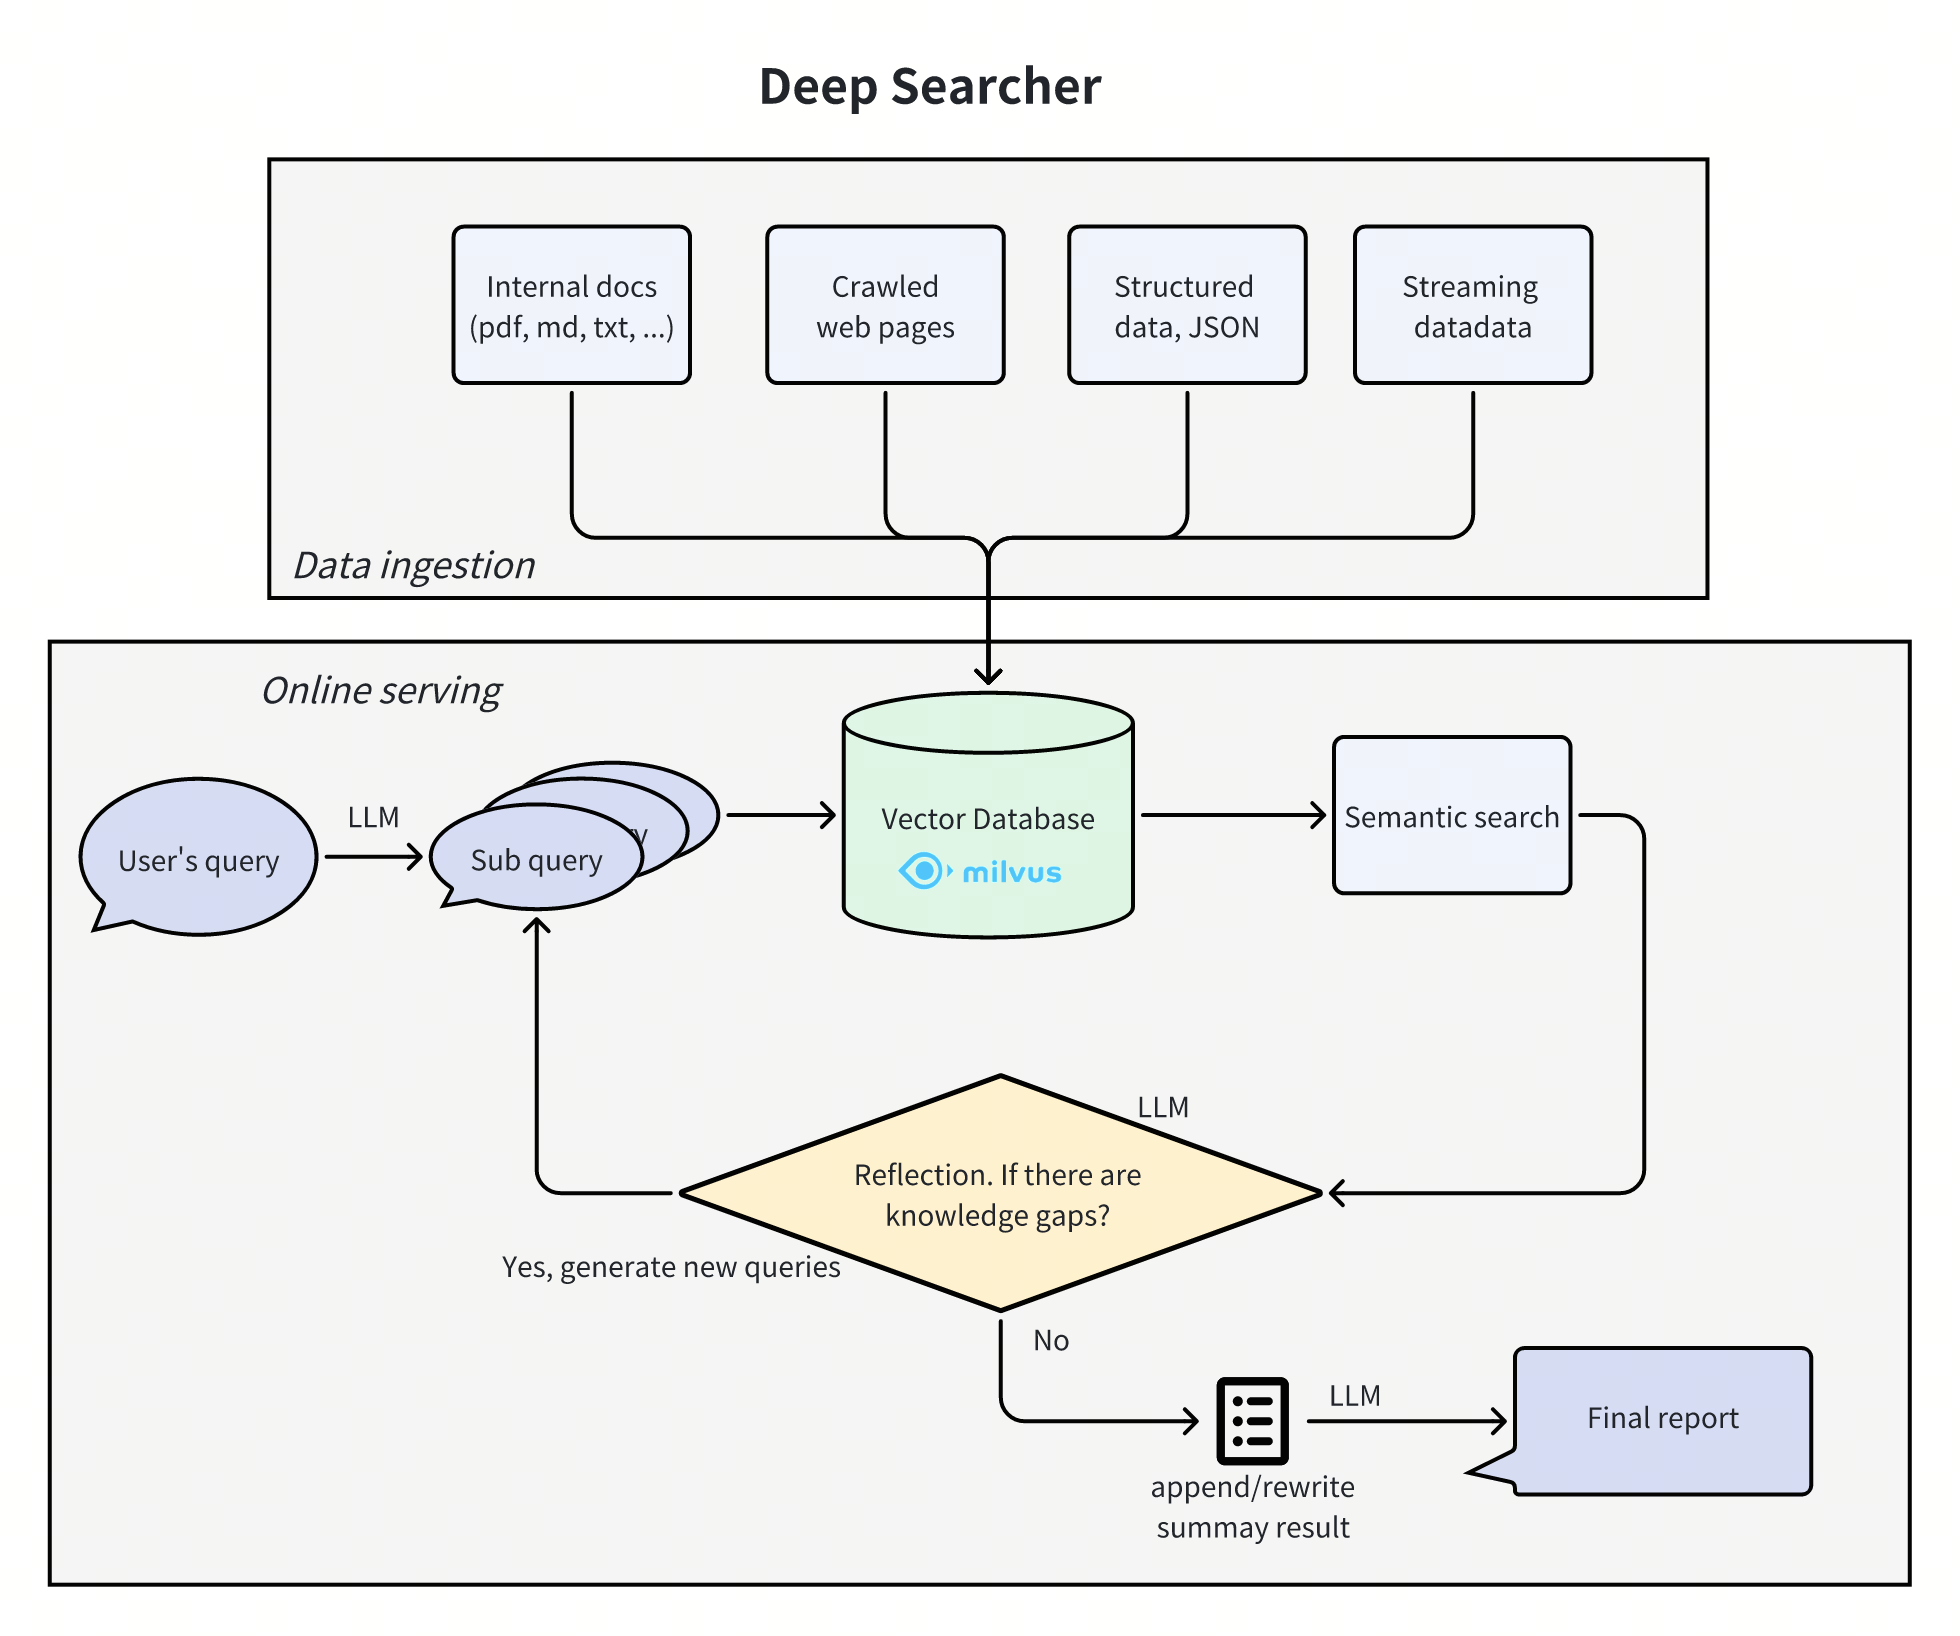
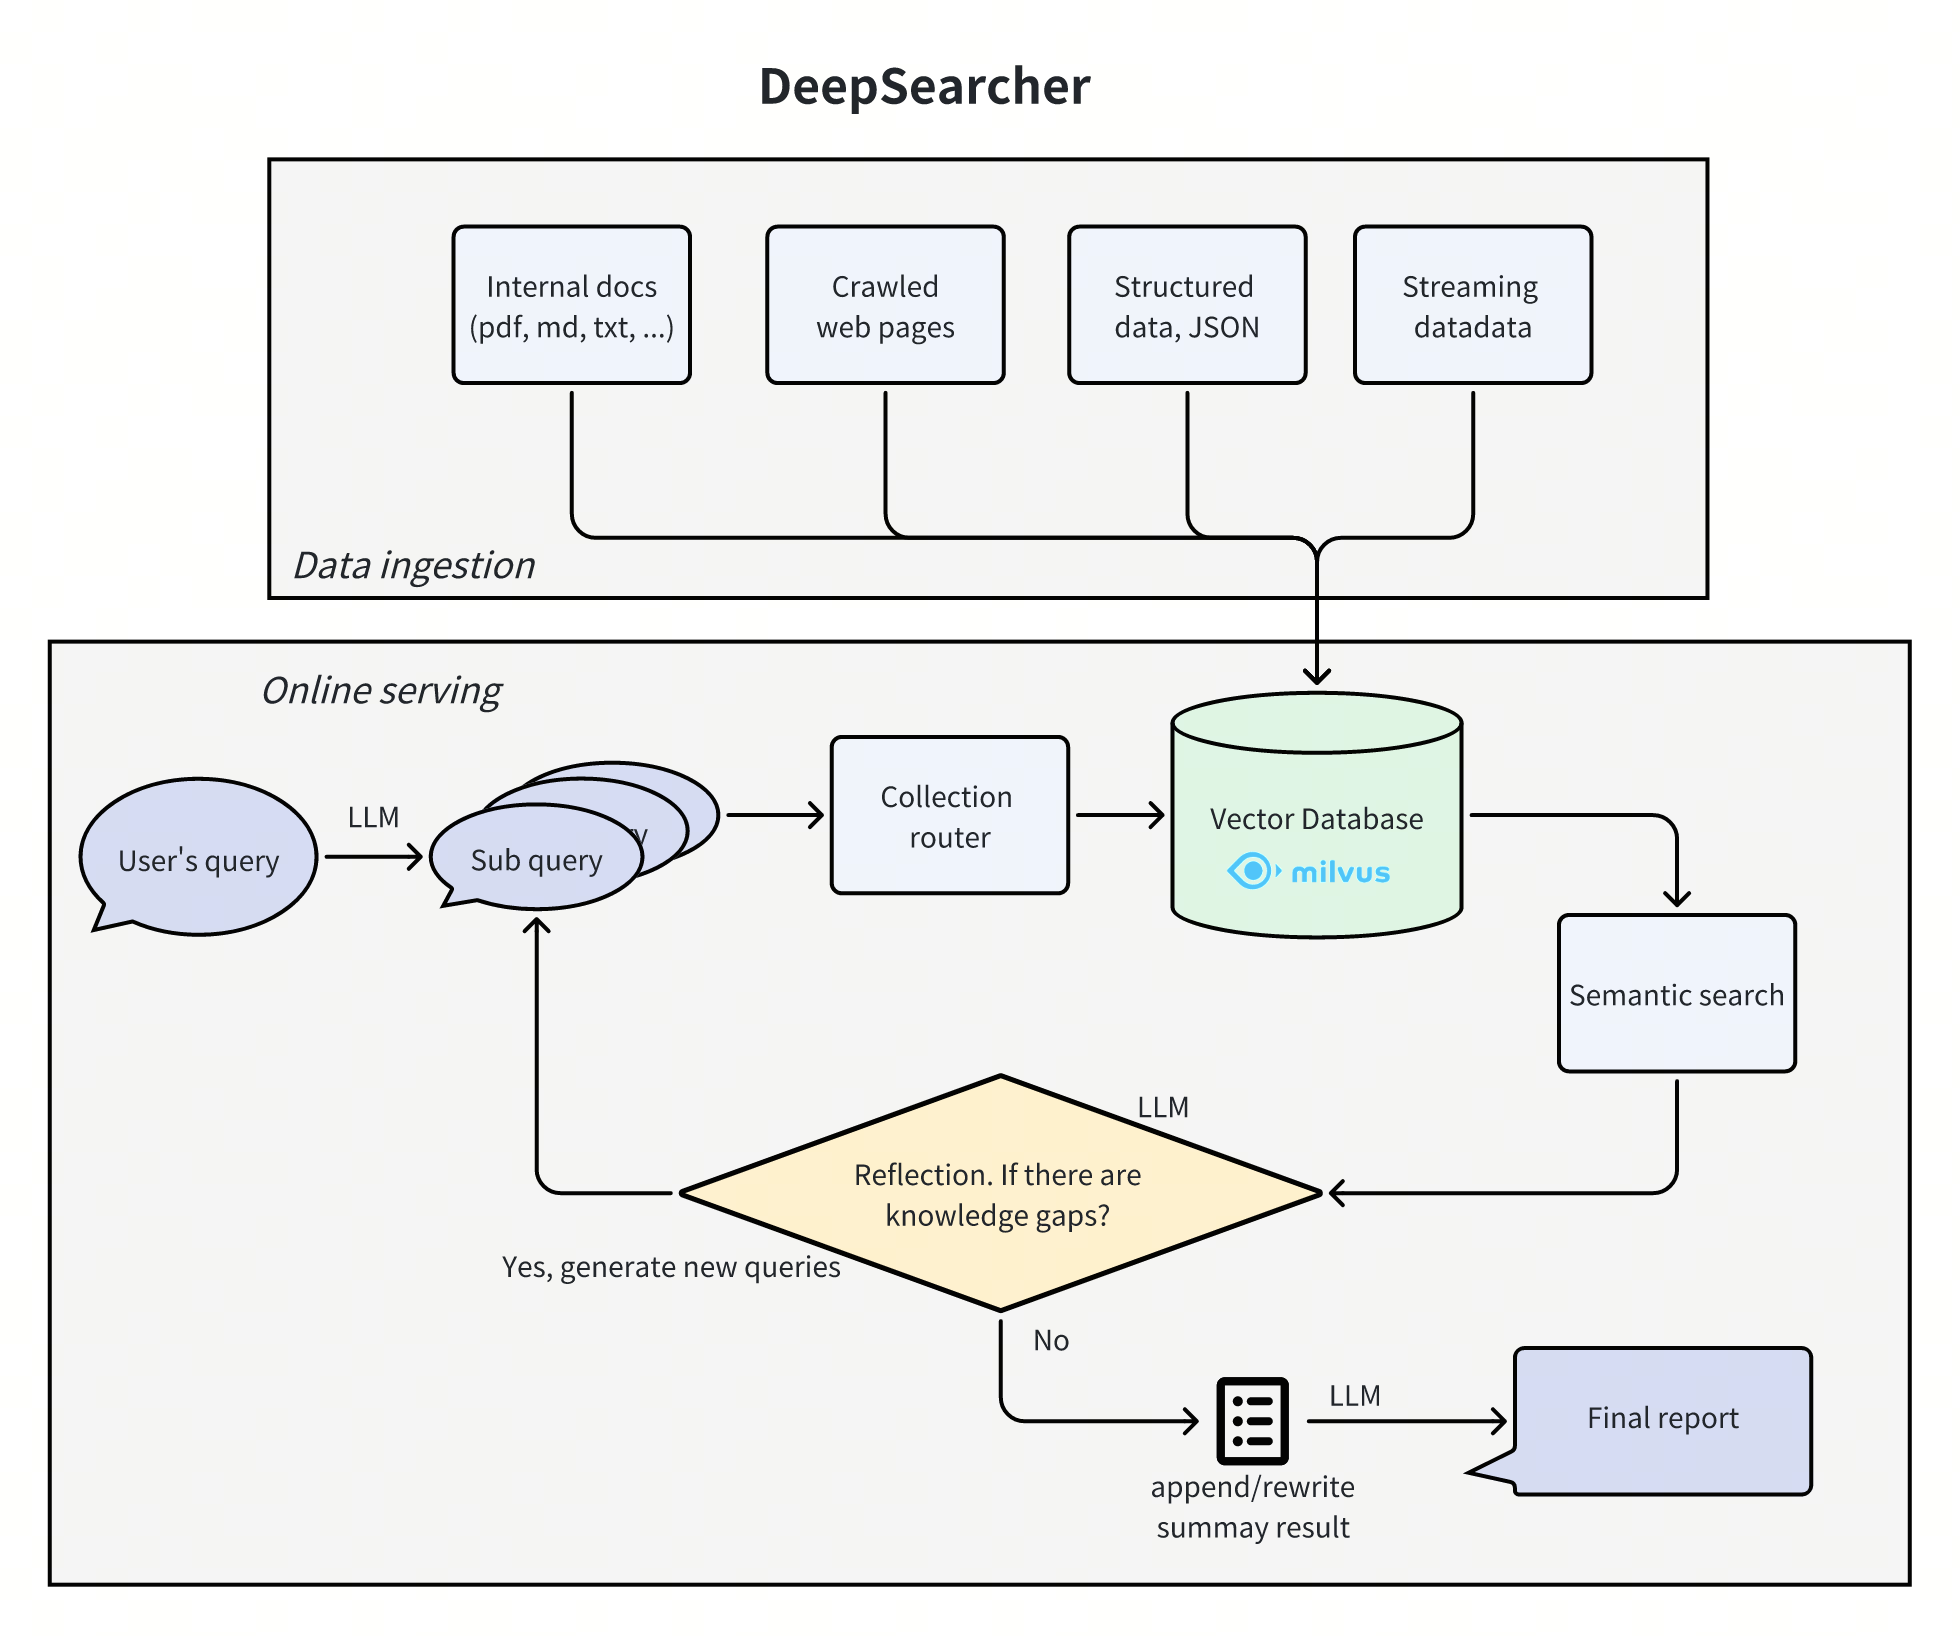
name refinement

diff --git a/deepsearcher/configuration.py b/deepsearcher/configuration.py
@@ -6,7 +6,7 @@ from deepsearcher.loader.file_loader.base import BaseLoader
 from deepsearcher.loader.web_crawler.base import BaseCrawler
 from deepsearcher.vector_db.base import BaseVectorDB
 
-FeatureType = Literal["llm", "file_loader", "web_crawler", "vector_db"]
+FeatureType = Literal["llm", "embedding", "file_loader", "web_crawler", "vector_db"]
 
 class Configuration:
     def __init__(self):

diff --git a/README.md b/README.md
@@ -1,6 +1,6 @@
-# Deep Searcher
+# DeepSearcher
 
-Deep Searcher combines Large Language Models (LLMs) and Vector Databases to perform search, evaluation, and reasoning based on private data, providing highly accurate answers. This project is suitable for enterprise knowledge management, intelligent Q&A systems, and information retrieval scenarios.
+DeepSearcher combines powerful LLMs (DeepSeek, OpenAI, etc.) and Vector Databases (Milvus, etc.) to perform search, evaluation, and reasoning based on private data, providing highly accurate answer and comprehensive report. This project is suitable for enterprise knowledge management, intelligent Q&A systems, and information retrieval scenarios.
 
 ![Architecture](./assets/pic/deep-searcher-arch.png)
 
@@ -39,7 +39,7 @@ code examples/example1.py
 python examples/example1.py
 ```
 
-💡 **Hint**: Refer to the `examples` directory to import your private data and build your customized Deep Searcher.
+💡 **Hint**: Refer to the `examples` directory to import your private data and build your customized DeepSearcher.
 
 ### Python Package Mode (Coming Soon)
 
@@ -73,4 +73,4 @@ python examples/example1.py
 - Add support for additional large models
 - Provide RESTful API interface
 
-We welcome contributions! Star & Fork the project and help us build a more powerful Deep Searcher! 🎯
+We welcome contributions! Star & Fork the project and help us build a more powerful DeepSearcher! 🎯
